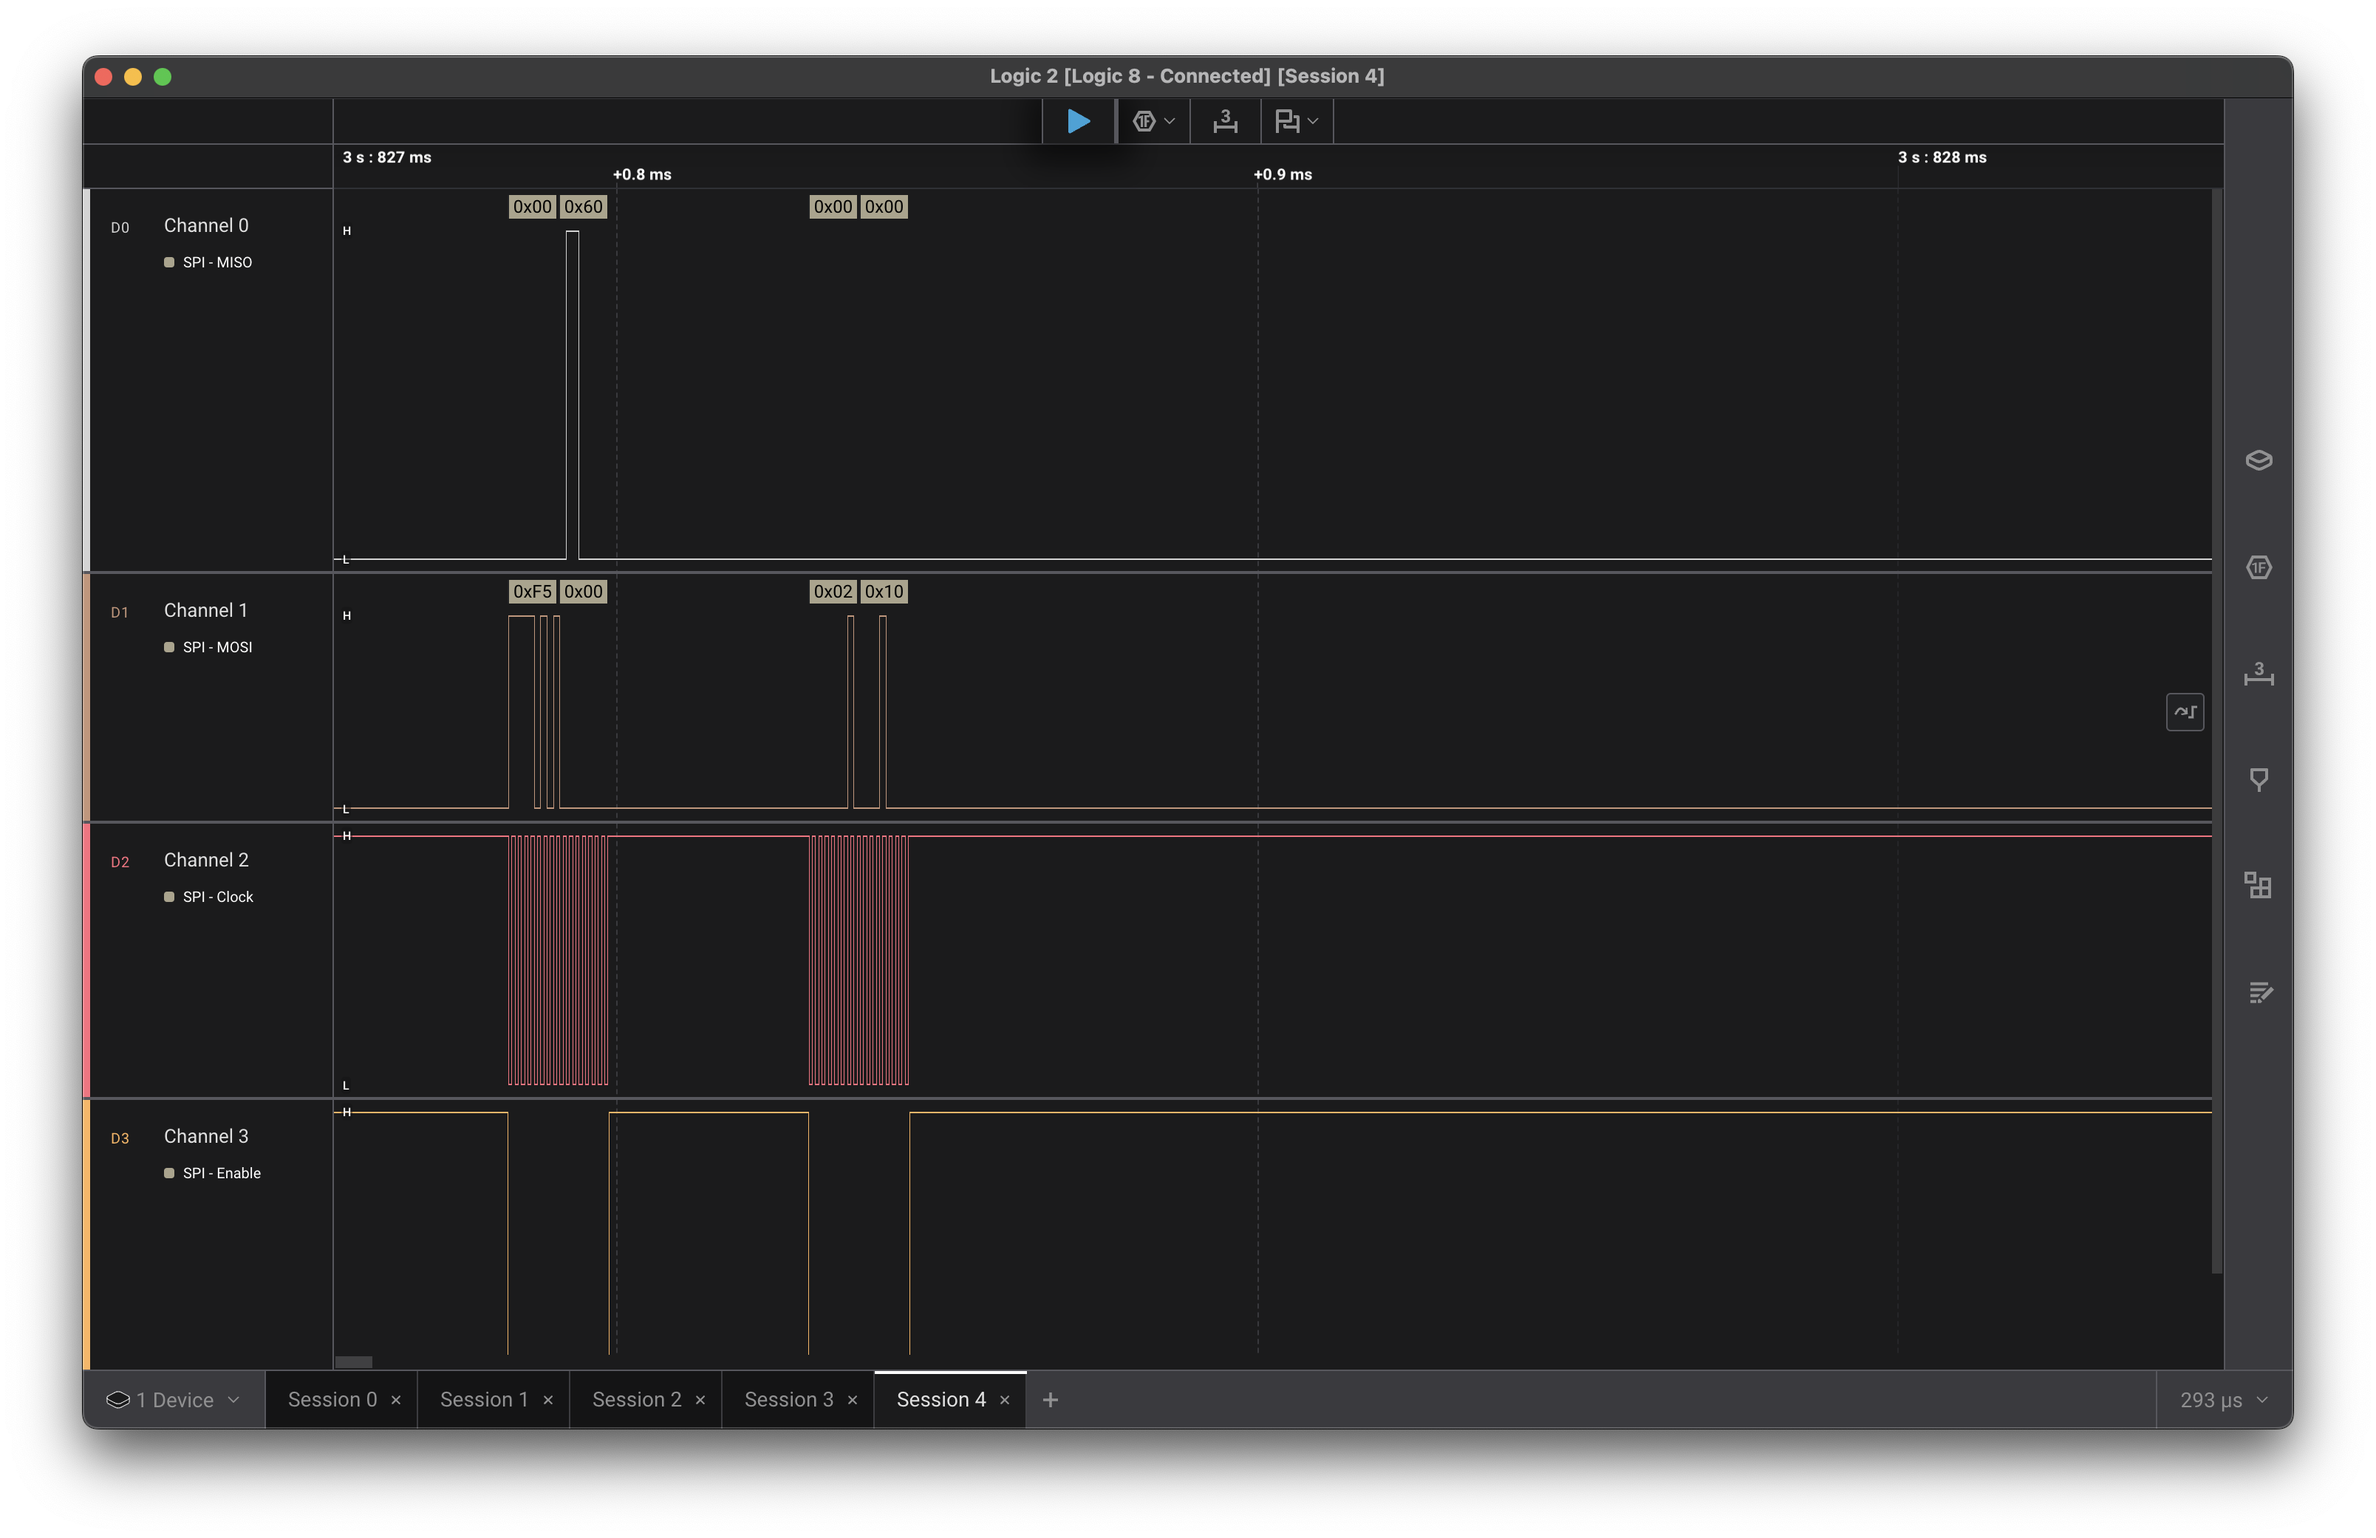
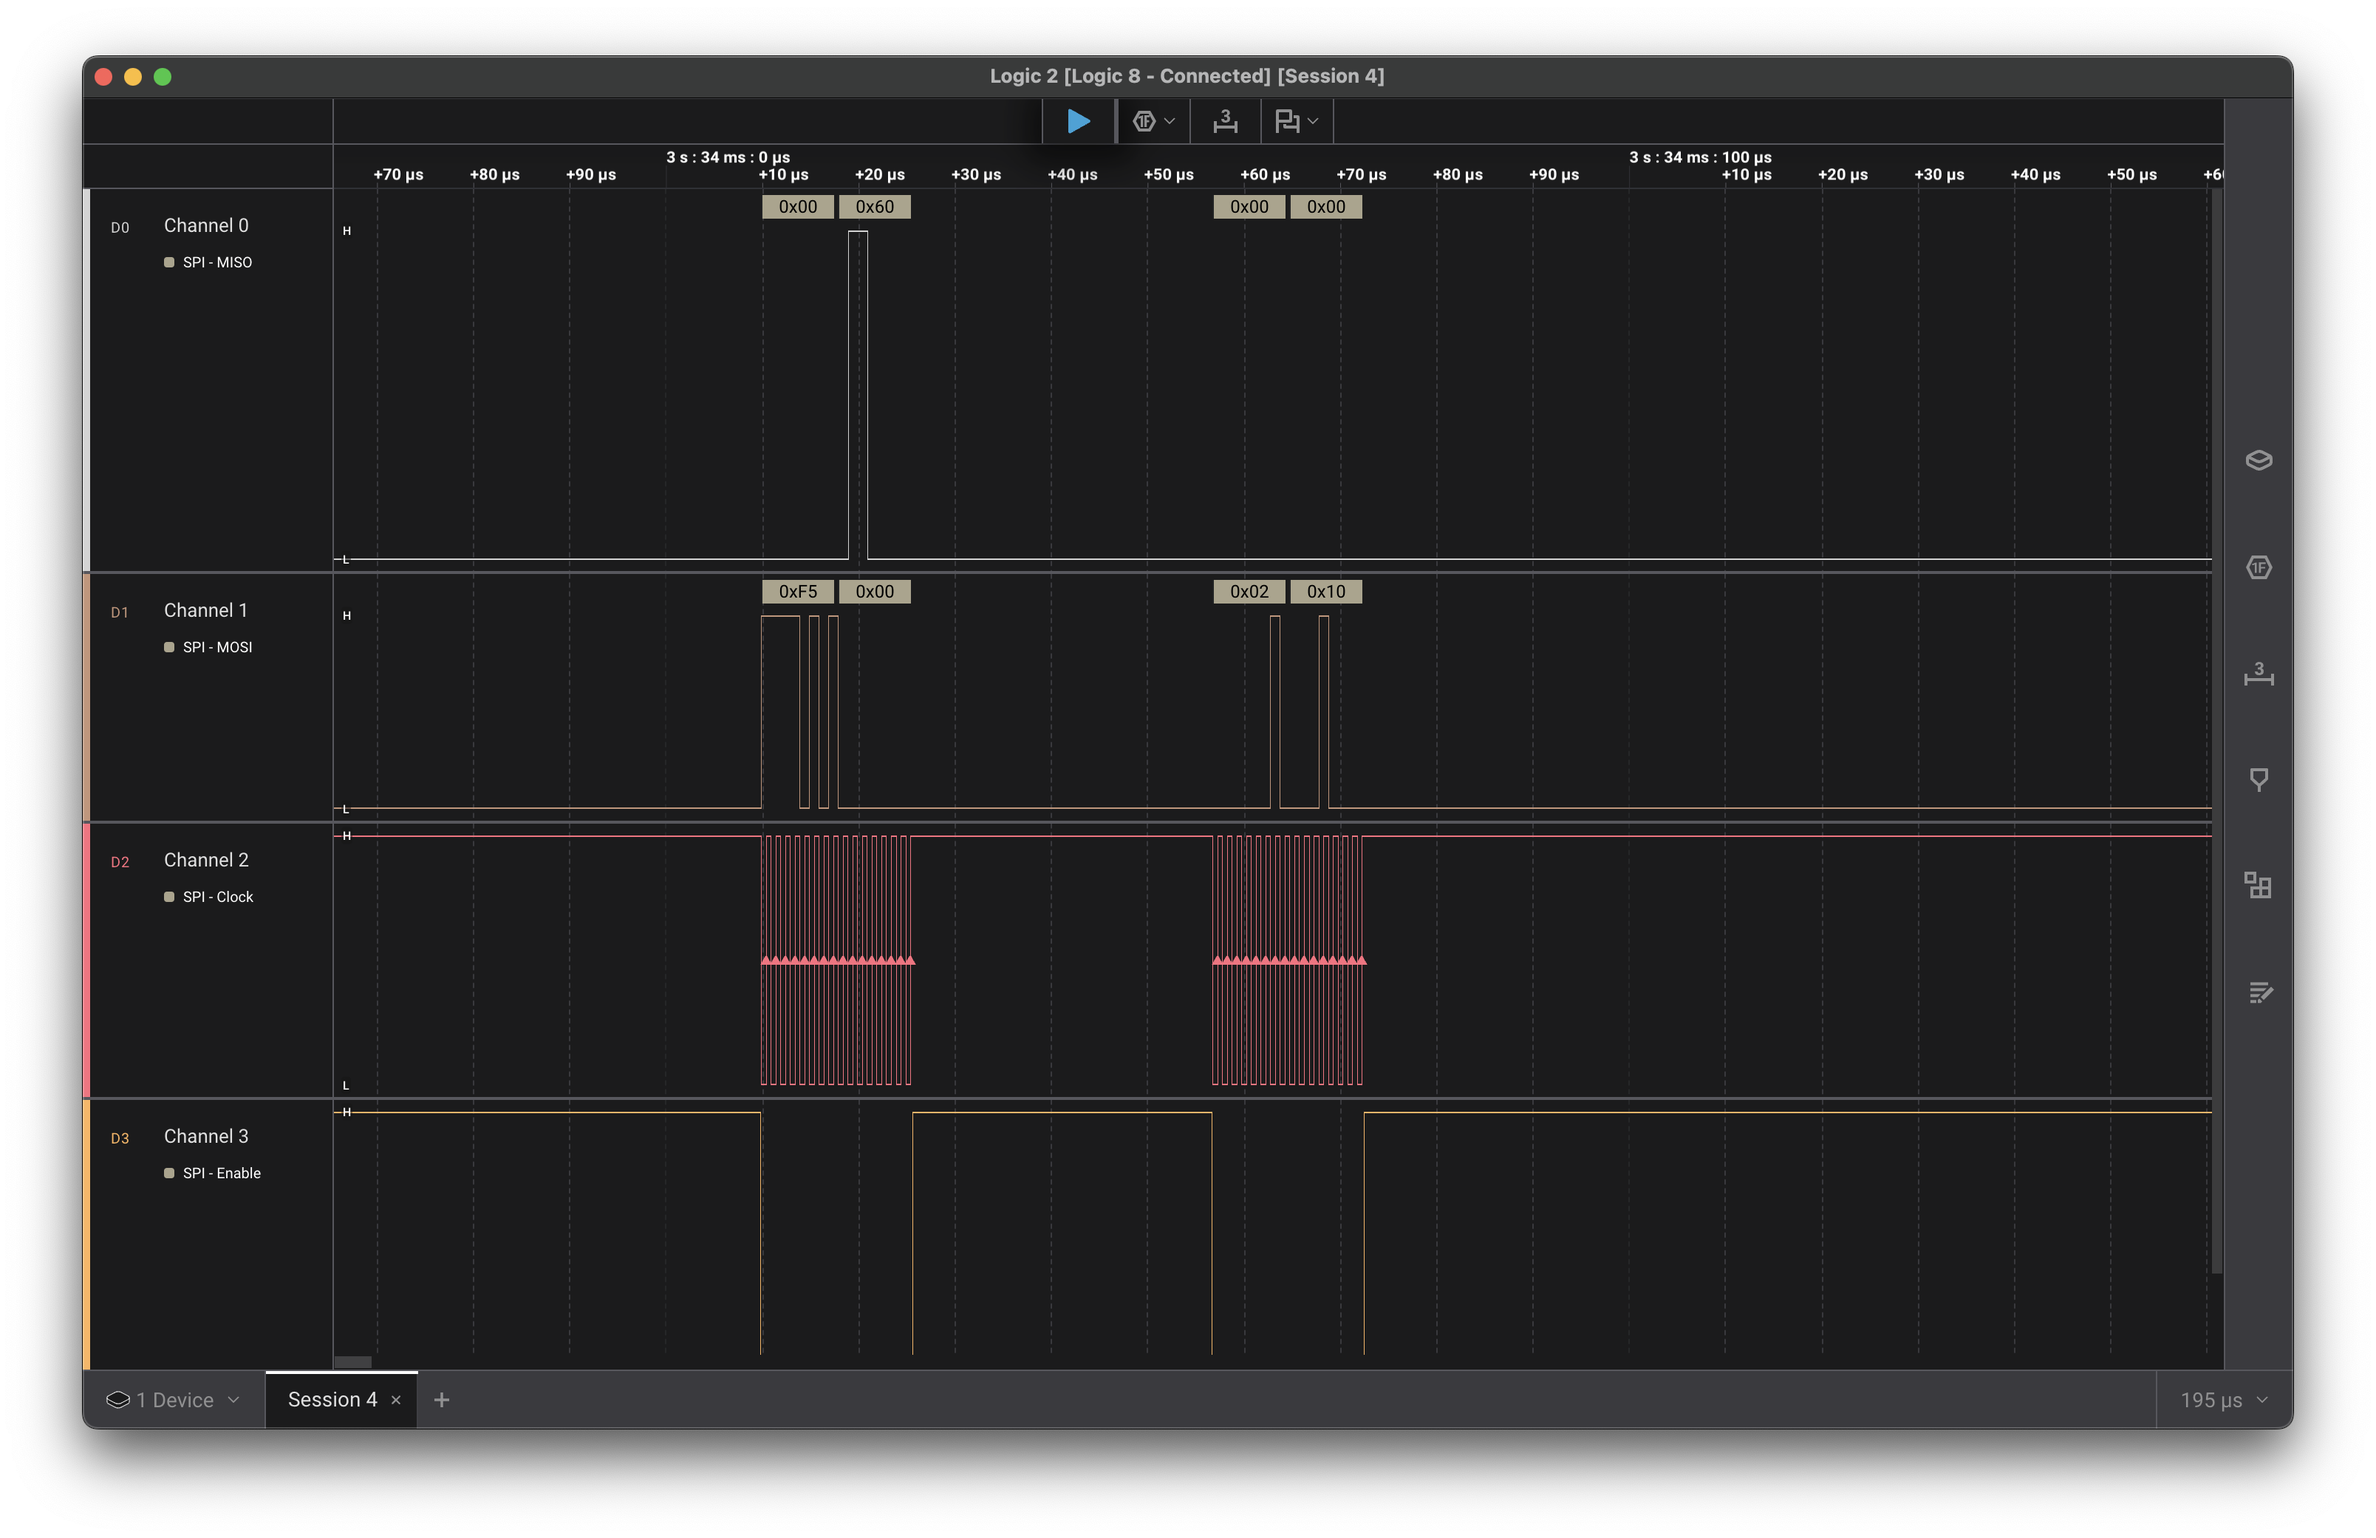
More images and fixes

diff --git a/src/styles/global.css b/src/styles/global.css
@@ -352,9 +352,9 @@ figure[data-slider] img.active {
 }
 
 figcaption {
-  margin-top: 8px;
   color: var(--muted);
   text-align: center;
+  font-size: 14px;
 }
 
 figure img {
